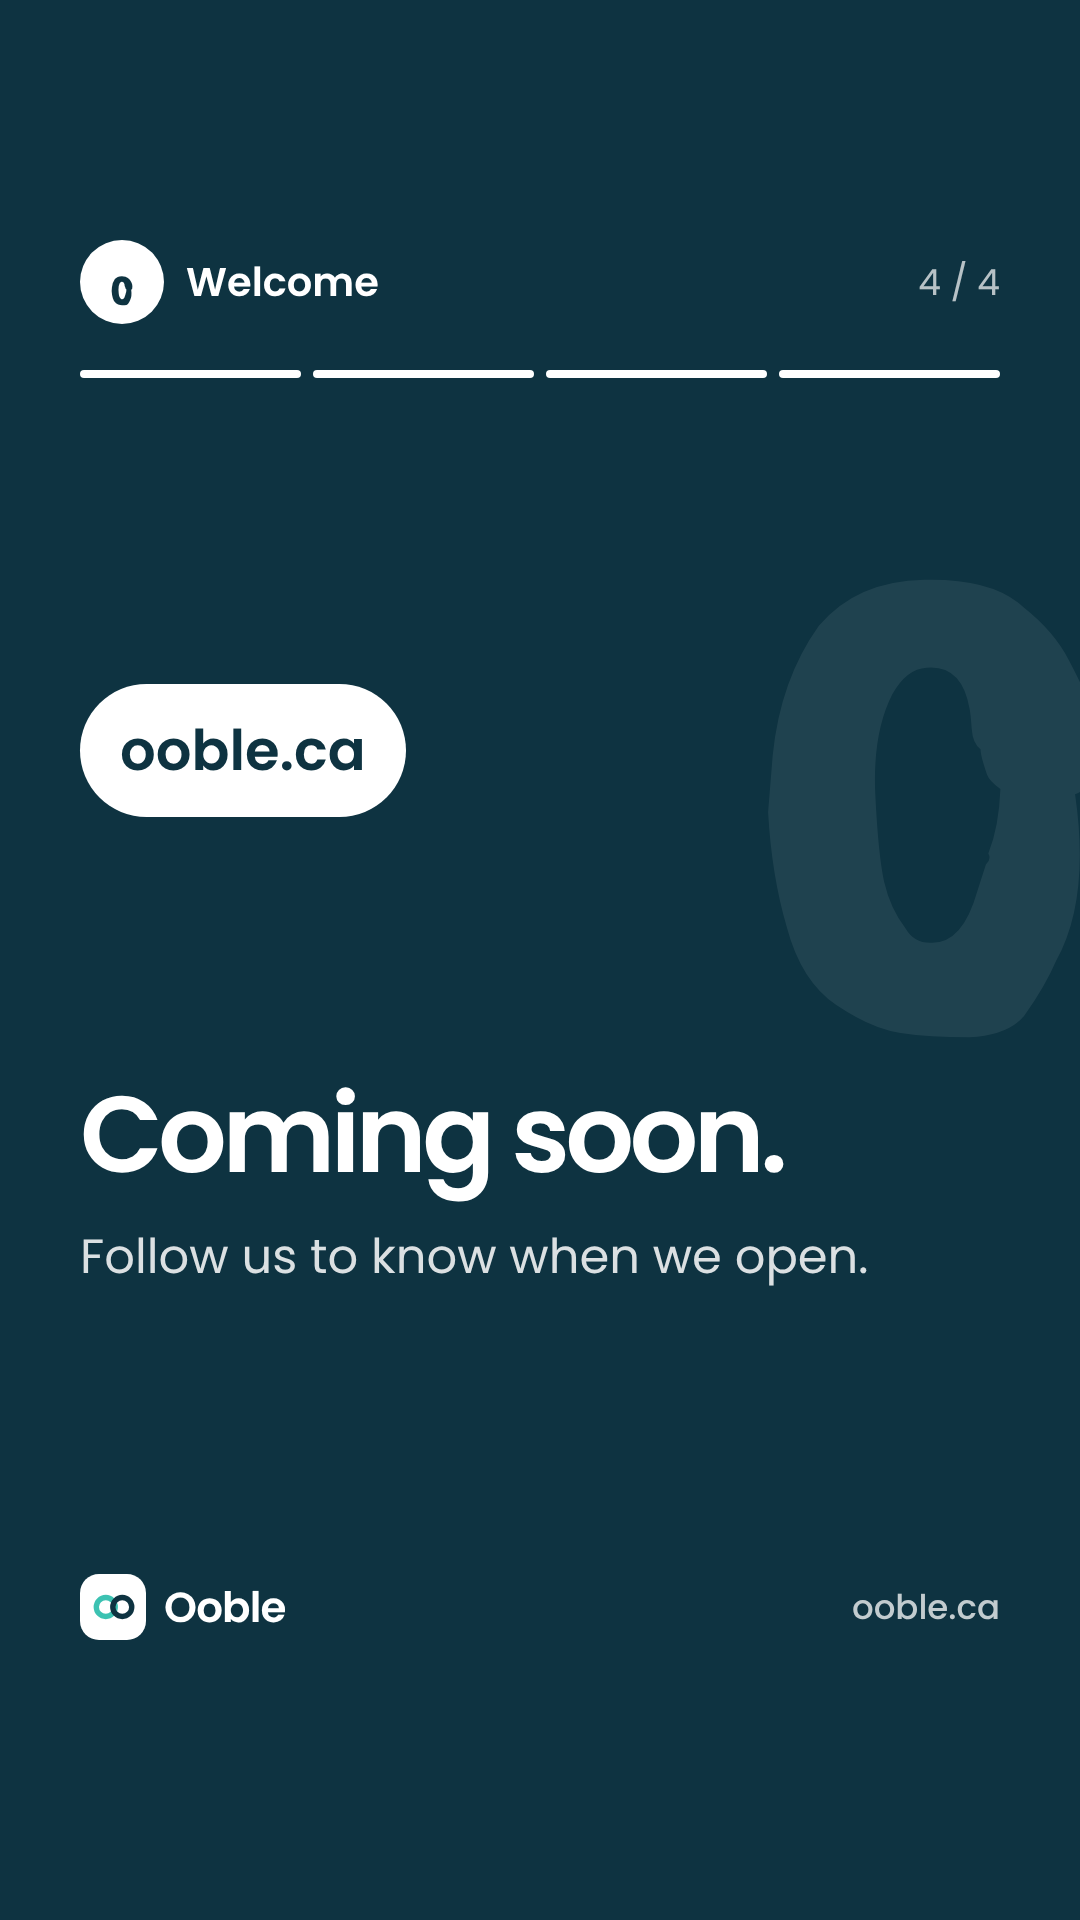
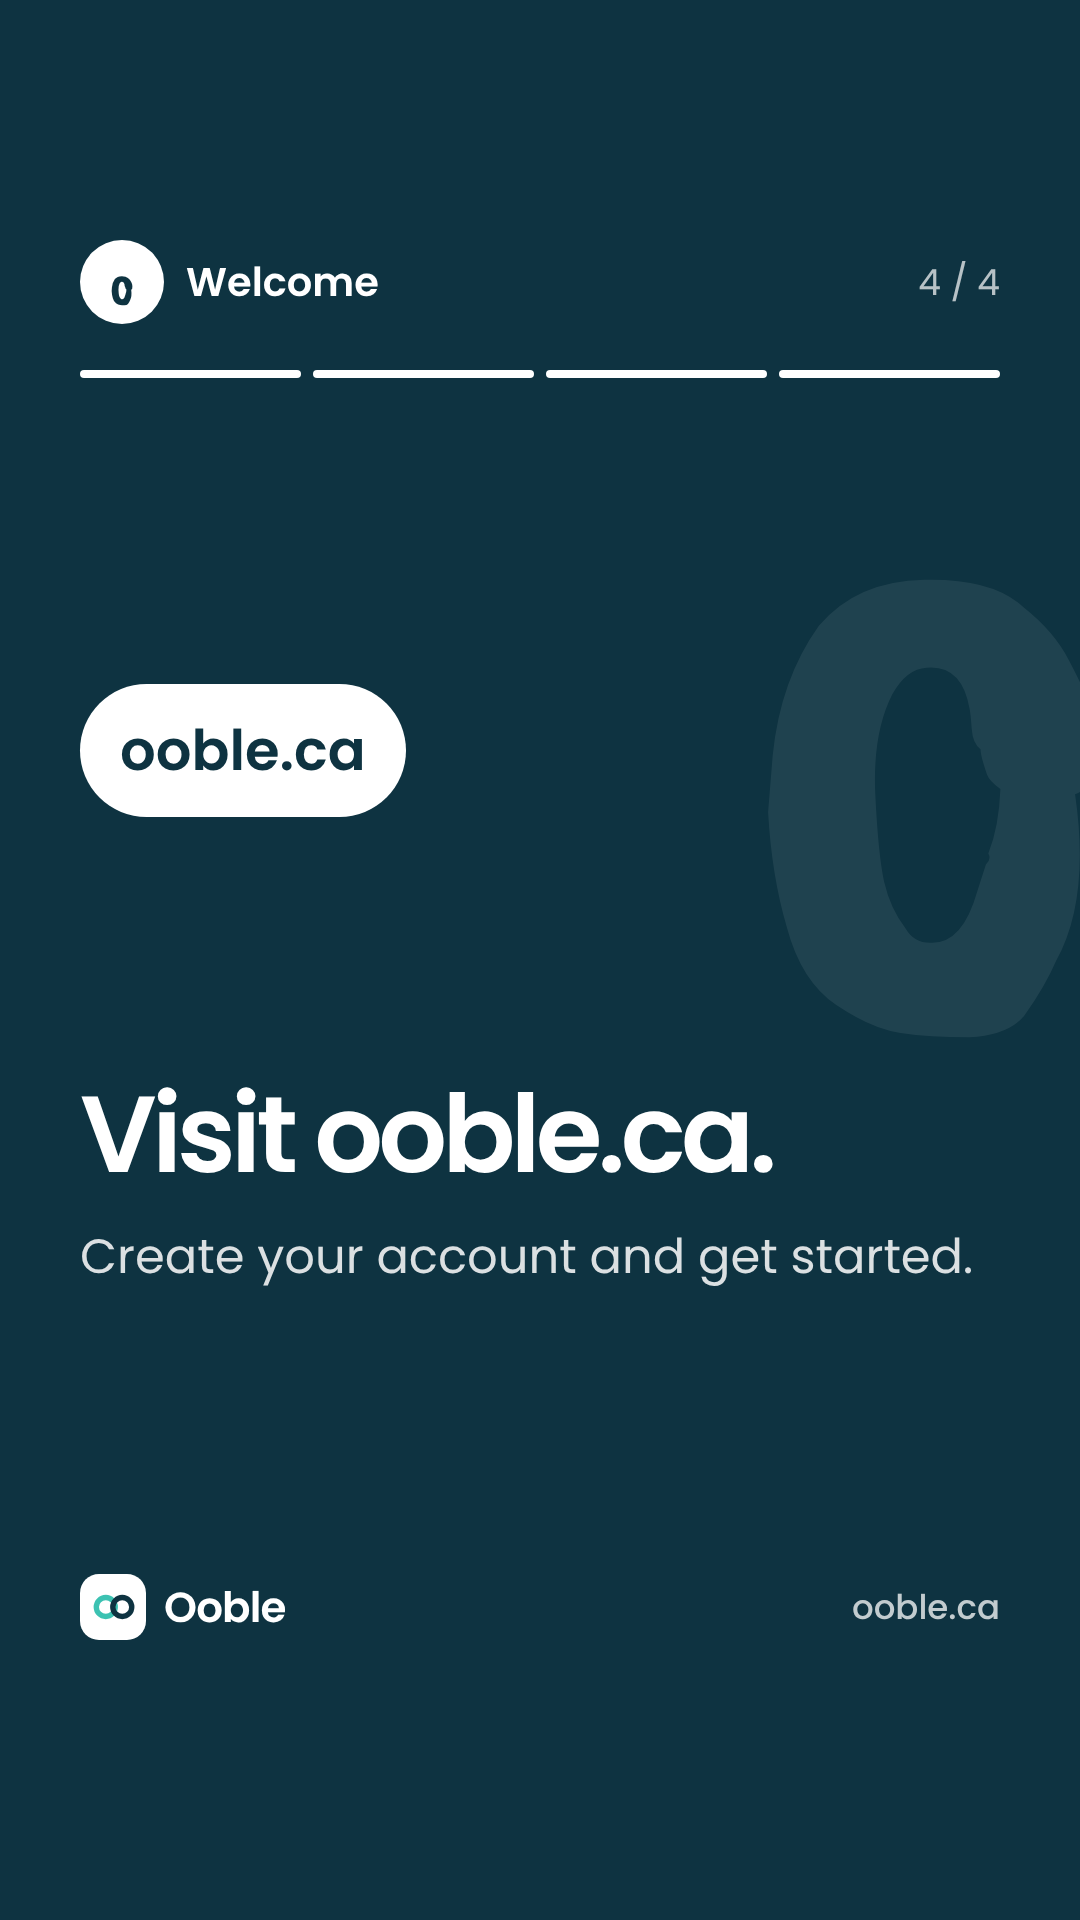
Studio réseaux sociaux : plus aucune mention « bientôt » ni d'ouverture (images, légendes, bio, règles)
Claude-Session: https://claude.ai/code/session_01CAJ8dx7vnzGsX95vvxDFrG

Changed region(s): [[0.0611, 0.5625, 0.8861, 0.6875]]

diff --git a/src/lib/socialPosts.ts b/src/lib/socialPosts.ts
@@ -47,18 +47,16 @@ export const SOCIAL_RULES = [
   "Ne jamais citer d'autres plateformes d'échange, ni dans les publications ni dans les réponses aux commentaires.",
   "Ne jamais promettre de gains ni de rendement : l'USDC sert à garder une valeur stable, pas à spéculer.",
   "Garder « Les cryptoactifs comportent des risques. » sur les publications qui parlent d'acheter.",
-  "Tant que la plateforme n'est pas ouverte, parler de « bientôt », sans annoncer de date.",
+  "Ne pas parler de « bientôt » ni d'ouverture : présenter Ooble au présent.",
   "Une question sur une commande ou de l'argent : inviter la personne à écrire en message privé ou par la page Contact du site.",
 ];
 
 export const SOCIAL_BIO_EN = `Buy and sell USDC in Canadian dollars
 Pay with Interac · 4 networks
-Coming soon
 ooble.ca`;
 
 export const SOCIAL_BIO = `Achetez et vendez de l'USDC en dollars canadiens
 Paiement par Interac · 4 réseaux
-Bientôt disponible
 ooble.ca`;
 
 export const SOCIAL_SERIES: SocialSeries[] = [
@@ -70,24 +68,24 @@ export const SOCIAL_SERIES: SocialSeries[] = [
     description: "Le lancement : ce qu'est Ooble, l'USDC, comment acheter, les réseaux et Interac.",
     posts: [
       {
-        id: "ooble-arrive", title: "Ooble arrive", images: img("serie-1", "01-ooble-arrive"),
-        titleEn: "Ooble is coming",
-        captionEn: `Ooble is coming.
+        id: "ooble-arrive", title: "Voici Ooble", images: img("serie-1", "01-ooble-arrive"),
+        titleEn: "Meet Ooble",
+        captionEn: `Meet Ooble.
 
-Soon, buy and sell USDC in Canadian dollars, simply and in minutes.
+Buy and sell USDC in Canadian dollars, simply.
 
 – Pay with Interac
 – USDC sent straight to your wallet
 – BNB Chain, Polygon, Solana and Avalanche
 
-Follow us to be among the first to know.
+Follow us for tips and news.
 
 ooble.ca
 
 #Ooble #USDC #Stablecoin #Crypto #Canada #Interac #CryptoCanada`,
-        caption: `Ooble arrive.
+        caption: `Voici Ooble.
 
-Bientôt, achetez et vendez de l'USDC en dollars canadiens, simplement et en quelques minutes.
+Achetez et vendez de l'USDC en dollars canadiens, simplement.
 
 – Paiement par Interac
 – USDC livré directement dans votre portefeuille
@@ -445,7 +443,7 @@ Une question avant votre premier achat ? Un doute sur une adresse ?
 – An OTC desk for large amounts
 – A dedicated contact
 
-Coming soon. Learn more: ooble.ca/entreprises
+Learn more: ooble.ca/entreprises
 
 Crypto assets involve risks.
 
@@ -456,7 +454,7 @@ Crypto assets involve risks.
 – Un desk OTC pour les montants importants
 – Un interlocuteur dédié
 
-Bientôt disponible. Pour en savoir plus : ooble.ca/entreprises
+Pour en savoir plus : ooble.ca/entreprises
 
 Les cryptoactifs comportent des risques.
 
@@ -477,28 +475,6 @@ Ooble fait une seule chose, et la fait bien : l'achat et la vente d'USDC contre 
 Pas de produits compliqués, pas de jargon.
 
 #Ooble #USDC #Simple #Stablecoin #CryptoCanada`,
-      },
-      {
-        id: "bientot", title: "C'est pour bientôt", images: img("serie-3", "18-bientot"),
-        titleEn: "It’s coming soon",
-        captionEn: `It’s coming soon.
-
-Follow us and turn on notifications to be among the first to buy USDC with Ooble.
-
-Share with someone who’d be interested.
-
-ooble.ca
-
-#Ooble #ComingSoon #USDC #CryptoCanada #Launch`,
-        caption: `C'est pour bientôt.
-
-Abonnez-vous et activez les notifications pour être parmi les premiers à acheter de l'USDC avec Ooble.
-
-Partagez avec quelqu'un que ça intéresse
-
- ooble.ca
-
-#Ooble #Bientôt #USDC #CryptoCanada #Lancement`,
       },
     ],
   },
@@ -1139,12 +1115,12 @@ Avec Ooble, vos USDC arrivent dans votre portefeuille, pas chez nous. C'est vous
     id: "serie-8",
     title: "Série 8 · Stories",
     titleEn: "Series 8 · Stories",
-    descriptionEn: "Vertical 1080 × 1920: poll, quiz and its answer, tip of the day, countdown and questions.",
-    description: "Format vertical 1080 × 1920 : sondage, quiz et sa réponse, conseil du jour, compte à rebours et questions.",
+    descriptionEn: "Vertical 1080 × 1920: poll, quiz and its answer, tip of the day and questions.",
+    description: "Format vertical 1080 × 1920 : sondage, quiz et sa réponse, conseil du jour et questions.",
     posts: [
       {
-        id: "story-ooble-arrive", title: 'Story · Ooble arrive', format: "story", images: img("serie-8", "49-story-ooble-arrive"),
-        titleEn: "Story · Ooble is coming",
+        id: "story-ooble-arrive", title: 'Story · Voici Ooble', format: "story", images: img("serie-8", "49-story-ooble-arrive"),
+        titleEn: "Story · Meet Ooble",
         captionEn: `Story to post as is.
 
 Add in Instagram: a “Link” sticker to ooble.ca, at the bottom of the image.`,
@@ -1223,16 +1199,6 @@ Add in Instagram: a “Link” sticker to ooble.ca, at the bottom of the image.`
 À ajouter dans Instagram : un sticker « Lien » vers ooble.ca, en bas de l'image.`,
       },
       {
-        id: "story-bientot", title: 'Story · Compte à rebours', format: "story", images: img("serie-8", "55-story-bientot"),
-        titleEn: "Story · Countdown",
-        captionEn: `Countdown story.
-
-Add in Instagram: the “Countdown” sticker, placed on the dotted frame. Title: “Ooble opening”. Only set a date once the opening date is decided.`,
-        caption: `Story compte à rebours.
-
-À ajouter dans Instagram : le sticker « Compte à rebours », placé sur le cadre en pointillés. Titre : « Ouverture d'Ooble ». Ne mettre une date que lorsque la date d'ouverture est décidée.`,
-      },
-      {
         id: "story-questions", title: 'Story · Une question ?', format: "story", images: img("serie-8", "56-story-questions"),
         titleEn: "Story · A question?",
         captionEn: `Questions story.
@@ -1266,20 +1232,6 @@ Know someone interested in USDC? Send them this post.
         caption: `Partagez Ooble.
 
 Vous connaissez quelqu'un que l'USDC intéresse ? Envoyez-lui cette publication.
-
-#Ooble #USDC #CryptoCanada`,
-      },
-      {
-        id: "bientot-chez-vous", title: "Bientôt chez vous", images: img("serie-9", "58-bientot-chez-vous"),
-        titleEn: "Coming your way",
-        captionEn: `Coming your way.
-
-Ooble opens soon. Turn on notifications so you don't miss it.
-
-#Ooble #USDC #CryptoCanada`,
-        caption: `Bientôt chez vous.
-
-Ooble ouvre bientôt. Activez les notifications pour ne rien manquer.
 
 #Ooble #USDC #CryptoCanada`,
       },
@@ -1326,20 +1278,6 @@ Crypto assets involve risks.
 Avec l'USDC, vos dollars américains numériques restent dans votre portefeuille.
 
 Les cryptoactifs comportent des risques.
-
-#Ooble #USDC #CryptoCanada`,
-      },
-      {
-        id: "rejoignez", title: "Rejoignez la liste", images: img("serie-9", "62-rejoignez"),
-        titleEn: "Join the list",
-        captionEn: `Join the list.
-
-Sign up at ooble.ca to know when we open.
-
-#Ooble #USDC #CryptoCanada`,
-        caption: `Rejoignez la liste.
-
-Inscrivez-vous sur ooble.ca pour être prévenu à l'ouverture.
 
 #Ooble #USDC #CryptoCanada`,
       },
@@ -1412,20 +1350,6 @@ En dollars canadiens, avec Interac, par une équipe d'ici.
     description: "Des scènes du quotidien d'Ooble, en grand, avec quelques mots.",
     descriptionEn: "Everyday Ooble moments, big, with a few words.",
     posts: [
-      {
-        id: "ils-attendent", title: "Ils attendent Ooble", images: img("serie-10", "67-ils-attendent"),
-        titleEn: "They're waiting for Ooble",
-        captionEn: `They're waiting for Ooble.
-
-Are you? Follow us to know when we open.
-
-#Ooble #USDC #CryptoCanada`,
-        caption: `Ils attendent Ooble.
-
-Et vous ? Abonnez-vous pour être prévenu à l'ouverture.
-
-#Ooble #USDC #CryptoCanada`,
-      },
       {
         id: "fini-les-files", title: "Fini les files d'attente", images: img("serie-10", "68-fini-les-files"),
         titleEn: "No more waiting in line",
@@ -2102,14 +2026,14 @@ Pour chaque story à la une (Bienvenue, Acheter, Vendre, Interac, Sécurité) :
         titleEn: "Ooble in 10 seconds",
         captionEn: `Ooble in 10 seconds.
 
-Buy and sell USDC in Canada, pay with Interac, on 4 networks. Coming soon.
+Buy and sell USDC in Canada, pay with Interac, on 4 networks.
 
 Crypto assets involve risks.
 
 #Ooble #USDC #CryptoCanada`,
         caption: `Ooble en 10 secondes.
 
-Achetez et vendez de l'USDC au Canada, payez par Interac, sur 4 réseaux. Bientôt disponible.
+Achetez et vendez de l'USDC au Canada, payez par Interac, sur 4 réseaux.
 
 Les cryptoactifs comportent des risques.
 
@@ -2213,16 +2137,16 @@ BNB Chain, Polygon, Solana, Avalanche. Choisissez celui de votre portefeuille.
 #Ooble #USDC #CryptoCanada`,
       },
       {
-        id: "app-acheter", title: "Bientôt dans l'app", images: img("serie-18", "114-app-acheter"),
-        titleEn: "Soon in the app",
-        captionEn: `Soon in the app.
+        id: "app-acheter", title: "Dans l'app", images: img("serie-18", "114-app-acheter"),
+        titleEn: "In the app",
+        captionEn: `In the app.
 
 The amount in dollars, what you get in USDC, the network. And you pay with Interac.
 
 Crypto assets involve risks.
 
 #Ooble #USDC #CryptoCanada`,
-        caption: `Bientôt dans l'app.
+        caption: `Dans l'app.
 
 Le montant en dollars, ce que vous recevez en USDC, le réseau. Et vous payez par Interac.
 
@@ -2328,12 +2252,12 @@ Le virement est parti.
         titleEn: "Reel · Nice to meet you",
         captionEn: `Nice to meet you.
 
-A blink, a gm, and Ooble is coming soon to ooble.ca.
+A blink, a gm, and see you on ooble.ca.
 
 #Ooble #USDC #CryptoCanada`,
         caption: `Enchanté.
 
-Un clin d'œil, un gm, et Ooble arrive bientôt sur ooble.ca.
+Un clin d'œil, un gm, et rendez-vous sur ooble.ca.
 
 #Ooble #USDC #CryptoCanada`,
       },
@@ -2565,20 +2489,6 @@ Choisissez le même dans Ooble.
         caption: `Un dollar numérique.
 
 1 USDC vaut 1 dollar américain.
-
-#Ooble #USDC #CryptoCanada`,
-      },
-      {
-        id: "bientot-calendrier", title: "On ouvre bientôt", images: img("serie-20", "138-bientot"),
-        titleEn: "Opening soon",
-        captionEn: `Opening soon.
-
-Follow us to know when.
-
-#Ooble #USDC #CryptoCanada`,
-        caption: `On ouvre bientôt.
-
-Abonnez-vous pour être prévenu.
 
 #Ooble #USDC #CryptoCanada`,
       },
